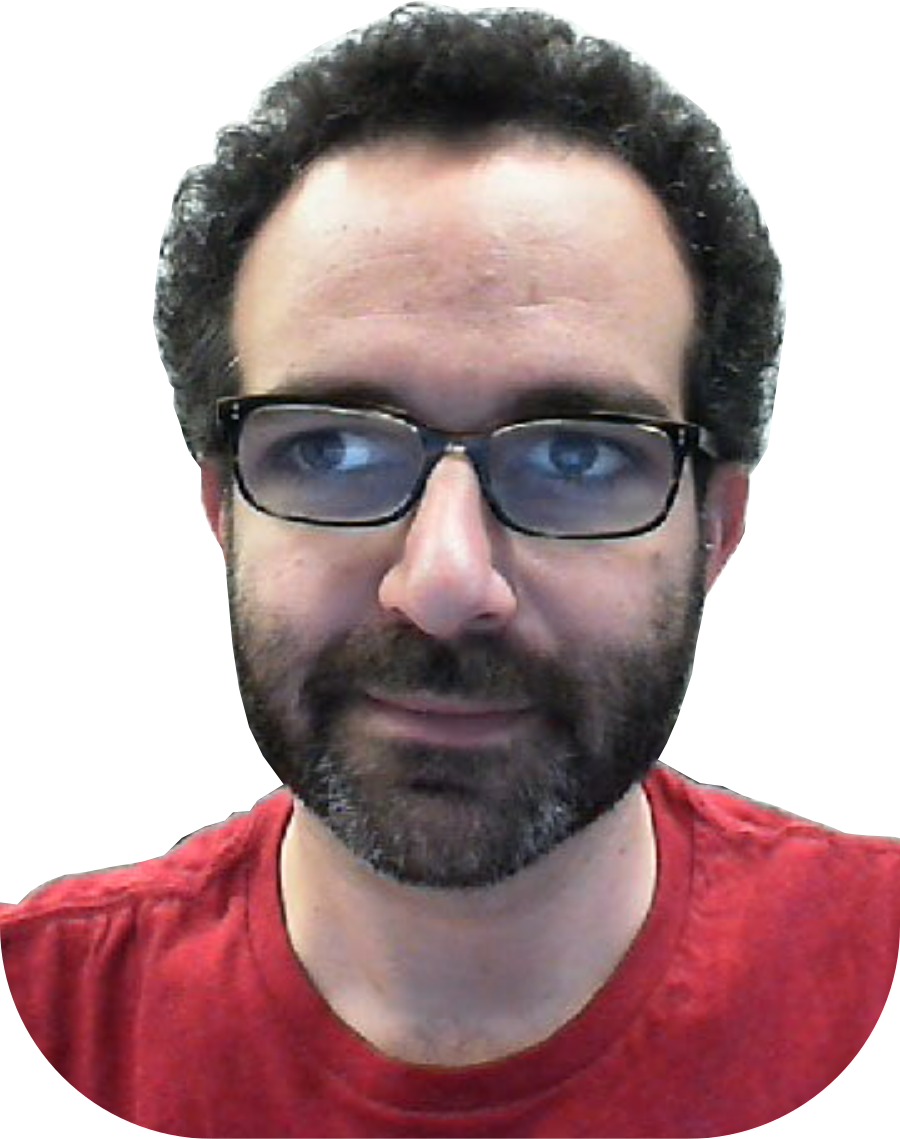
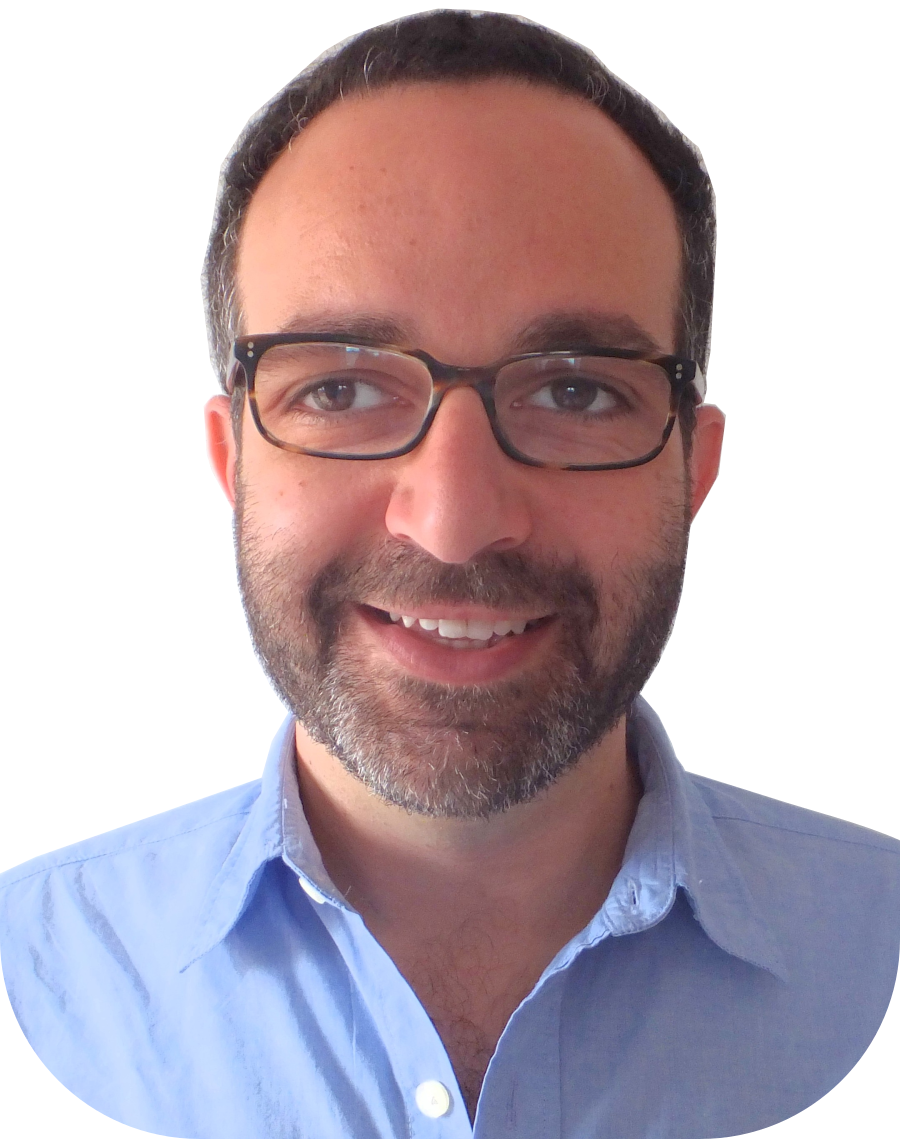
Updated talks and activities, changed picture

diff --git a/css/style.css b/css/style.css
@@ -1,11 +1,3 @@
-/*
-html {
-  font-family: 'Merriweather', serif;
-  font-size: 16px;
-  color: rgba(0,0,0,0.8);
-  line-height: 1.65;
-}
-*/
 body {
   font-family: inherit;
   font-size: 16pt;
@@ -15,21 +7,6 @@ body {
   padding-top: 0;
   counter-reset: captions;
 }
-
-#cv a:hover, a:active{
-  /*background-color: #005181;*/
-  background-color: gray;
-	color: white;
-}
-#cv a:link {
-    text-decoration: none;
-    padding: 10px 20px;
-}
-
-#cv a:visited {
-    text-decoration: none;
-}
-
 
 .date {
   position: relative;
@@ -143,7 +120,8 @@ blockquote p {
 
 #contact a:hover,
 a:focus {
-  color: #005181;
+  color: #0095eb;
+  /*color: #005181;*/
 }
 
 #contact {
@@ -178,6 +156,10 @@ a:focus {
   position: relative;
 }
 
+#profile a:link, a:visited, a:hover, a:active{
+  color: #666;
+}
+
 
 #profile ul.social-icon {
   display: inline-flex;
@@ -199,7 +181,8 @@ a:focus {
 }
 
 #profile .social-icon li:hover {
-  transform: scale(1.2)
+	background-color: white;
+  transform: scale(1.2);
 }
 
 table.activ{
@@ -220,7 +203,6 @@ table.activ td:nth-child(1){
 }
 table.activ td:nth-child(2){
   border-left: thick solid red;
-  /*padding-top: 2px;*/
   padding-bottom: 2px;
   vertical-align: top;
 }

diff --git a/index.html b/index.html
@@ -164,7 +164,26 @@ MathJax.Hub.Config({
     </div>
 		<table class="publist">
     <!-- BEGIN 2017 -->
-<tr>
+<tr><td>31-OCT-17</td>
+    <td><b>Higgs, light Yukawas, and flavor changing couplings</b>
+    <br>Workshop on the physics of HL-LHC, and perspectives at HE-LHC, CERN, Meyrin, Switzerland
+  </td>
+</tr>
+<tr><td>31-OCT-17</td>
+    <td><b>Exotic Higgs Decays and Light Quark Yukawas</b>
+    <br>CMS Exotic Higgs Workshop, CERN, Meyrin, Switzerland
+  </td>
+</tr>
+<tr><td>27-SEP-17</td>
+    <td><b>Chiral Effective Theory of Dark Matter Direct Detection</b>
+    <br>Flavour & Dark Matter, Heidelberg, Germany
+  </td>
+</tr>
+<tr><td>26-SEP-17</td>
+    <td><b>Light mediators in $B$ decays and links to dark matter</b>
+    <br>Flavour & Dark Matter, Heidelberg, Germany
+  </td>
+</tr>
 <td>29.AUG.17</td>
 <td>
 <b>Double Higgs Production in VBF</b><br>QCD@LHC, Debrecen, Hungary
